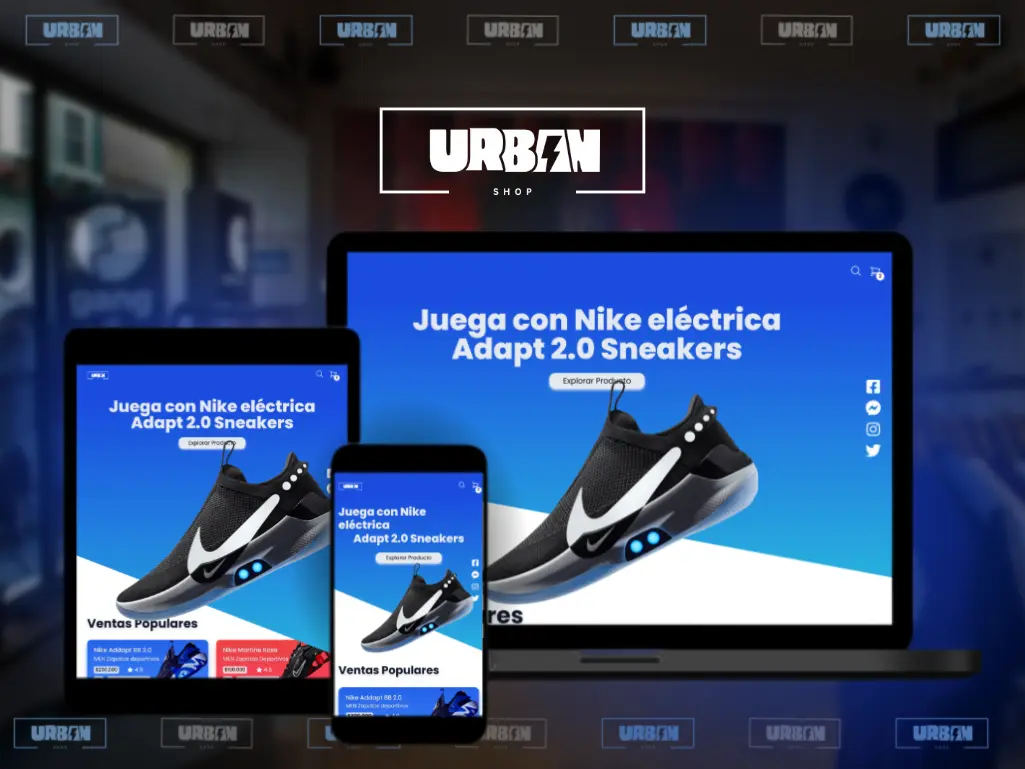
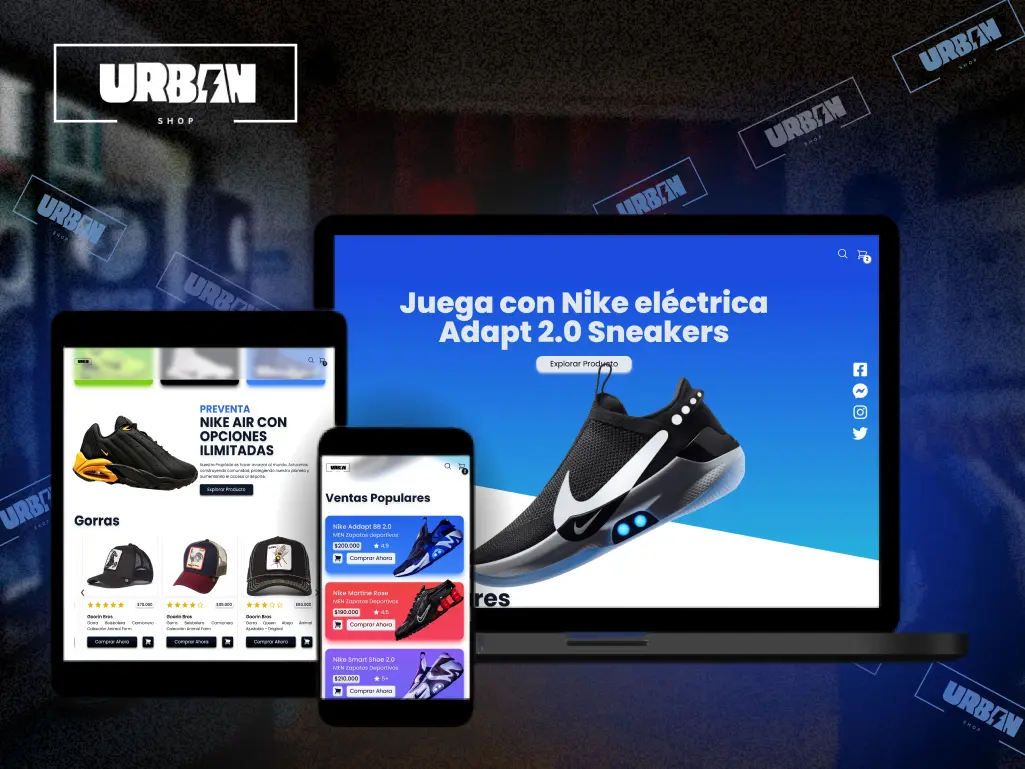
update data projects

diff --git a/src/data/dataProjects.jsx b/src/data/dataProjects.jsx
@@ -4,15 +4,10 @@ import Viflow3 from "../assets/projects/viflow3.webp";
 
 
 import UrbanShop1 from "../assets/projects/urbanshop1.webp";
-import Amazon2 from "../assets/projects/Amazon2.jpg";
-import Amazon3 from "../assets/projects/Amazon3.jpg";
-import Amazon4 from "../assets/projects/Amazon4.jpg";
-import Amazon5 from "../assets/projects/Amazon5.jpg";
+import UrbanShop2 from "../assets/projects/urbanshop2.webp";
+import UrbanShop3 from "../assets/projects/urbanshop3.webp";
 
-import Ajaka1 from "../assets/projects/Ajaka1.jpg";
-import Ajaka2 from "../assets/projects/Ajaka2.jpg";
-import Ajaka3 from "../assets/projects/Ajaka3.jpg";
-import Ajaka4 from "../assets/projects/Ajaka4.jpg";
+import FrameOnix1 from "../assets/projects/frameonix1.webp";
 
 import Consultora1 from "../assets/projects/Consultora1.jpg";
 import Consultora2 from "../assets/projects/Consultora2.jpg";
@@ -37,52 +32,32 @@ export const dataProjects = [
     },
     {
         id: 2,
-        title: "Urban Shop",
+        title: "UrbanShop",
         url: "UrbanShop",
         categoryId: 1,
         images: [
             <img src={UrbanShop1} alt="Mockup del proyecto de UrbanShop" />,
-            <img src={Amazon2} alt="Mockup del proyecto de Amazon" />,
-            <img src={Amazon3} alt="Mockup del proyecto de Amazon" />,
-            <img src={Amazon4} alt="Mockup del proyecto de Amazon" />,
-            <img src={Amazon5} alt="Mockup del proyecto de Amazon" />,
+            <img src={UrbanShop2} alt="Mockup del proyecto de UrbanShop" />,
+            <img src={UrbanShop3} alt="Mockup del proyecto de UrbanShop" />,
         ],
-        tags: ["Rediseño", "Web", "E-commerce", "Benchmark"],
+        tags: ["Web", "E-commerce"],
         shortDescription:
             "Una reinvención de la experiencia y diseño visual, eficientizando la búsqueda y compra de productos.",
     },
     {
         id: 3,
-        title: "SkillSwap",
-        url: "skillswap",
-        categoryId: 2,
+        title: "FrameOnix",
+        url: "FrameOnix",
+        categoryId: 1,
         images: [
-            <img src={Ajaka1} alt="Mockup del proyecto de SkillSwap" />,
-            <img src={Ajaka1} alt="Mockup del proyecto de SkillSwap" />,
-            <img src={Ajaka1} alt="Mockup del proyecto de SkillSwap" />,
-            <img src={Ajaka1} alt="Mockup del proyecto de SkillSwap" />,
+            <img src={FrameOnix1} alt="Mockup del proyecto de FrameOnix" />,
         ],
-        tags: ["Creación", "App", "Material Design", "Storytelling"],
+        tags: ["Web", "Library"],
         shortDescription:
             "Busca revolucionar la forma en que aprendemos y compartimos experiencias de aprendizaje.",
     },
     {
         id: 4,
-        title: "Ajaka Envases",
-        url: "ajaka-envases",
-        categoryId: 2,
-        images: [
-            <img src={Ajaka1} alt="Mockup del proyecto de Ajaka Envases" />,
-            <img src={Ajaka2} alt="Mockup del proyecto de Ajaka Envases" />,
-            <img src={Ajaka3} alt="Mockup del proyecto de Ajaka Envases" />,
-            <img src={Ajaka4} alt="Mockup del proyecto de Ajaka Envases" />,
-        ],
-        tags: ["Responsive", "Web", "Landing page", "React Router"],
-        shortDescription:
-            "Landing page adaptable y resolutiva para una empresa de envasado de productos.",
-    },
-    {
-        id: 5,
         title: "Consultora",
         url: "consultora-de-negocios",
         categoryId: 2,
